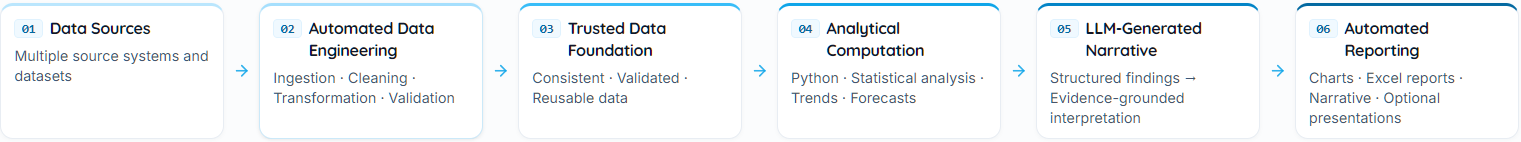
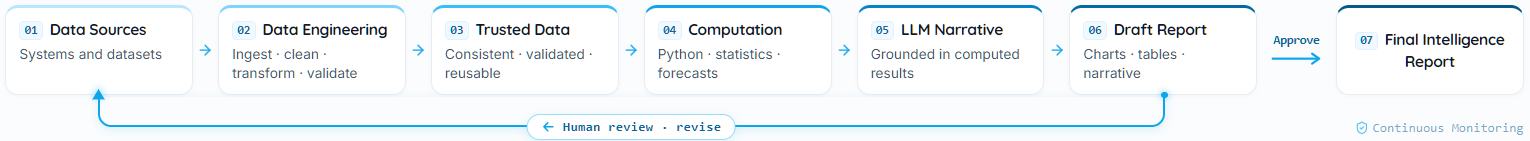
Automate the analytical workflow. Preserve human judgment. Deliver trusted intelligence.

diff --git a/README.md b/README.md
@@ -17,12 +17,12 @@ This is more than automating a report-writing task. It is **automating the produ
 I am  testing a different question:
 > Can the system carry the entire analytical workflow and produce a finished report without someone manually moving between tools and performing each step?
 
-`Source Data → Automated Data Engineering → Trusted Data Foundation → Analytical Computation → LLM-Generated Narrative → Automated Reporting`  
+`Source Data → Data Engineering → Trusted Data → Computation → LLM-Generated Narrative → Draft Report → Human approval → Final Intelligence Report`  
 <img src="Data-to-Narrative-Pipelines/Data-to-Narrative.png" alt="Autonomous Data-to-Narrative Architecture" style="max-width:100%;height:auto;">  
 
  
-[**Output**](https://panxiaoyan225-sudo.github.io/AI-DataSuite/Data-to-Narrative-Pipelines/Data-to-Narrative_walkthrough.html) — Rendered, output-only walkthrough showcasing all generated charts, audit checks, and executive narratives (open locally in your browser or via GitHub Pages).  
-[**Report**](https://panxiaoyan225-sudo.github.io/AI-DataSuite/Data-to-Narrative-Pipelines/Executive_Expense_Report_2026-11-26.html) - First draft generated end-to-end by the Autonomous Data-to-Narrative Engine,providing a structured baseline for human review and refinement.  
+[**Output**](https://panxiaoyan225-sudo.github.io/AI-DataSuite/Data-to-Narrative-Pipelines/Data-to-Narrative_walkthrough.html) — Rendered, output-only walkthrough showcasing all generated charts, audit checks, and executive narratives.  
+[**Draft Report**](https://panxiaoyan225-sudo.github.io/AI-DataSuite/Data-to-Narrative-Pipelines/Executive_Expense_Report_2026-11-26.html) - First draft generated end-to-end by the Autonomous Data-to-Narrative Engine,providing a structured baseline for human review and refinement.  
 
 And I have the Answer: **Automate the analytical workflow. Preserve human judgment. Deliver trusted intelligence.** 
 
